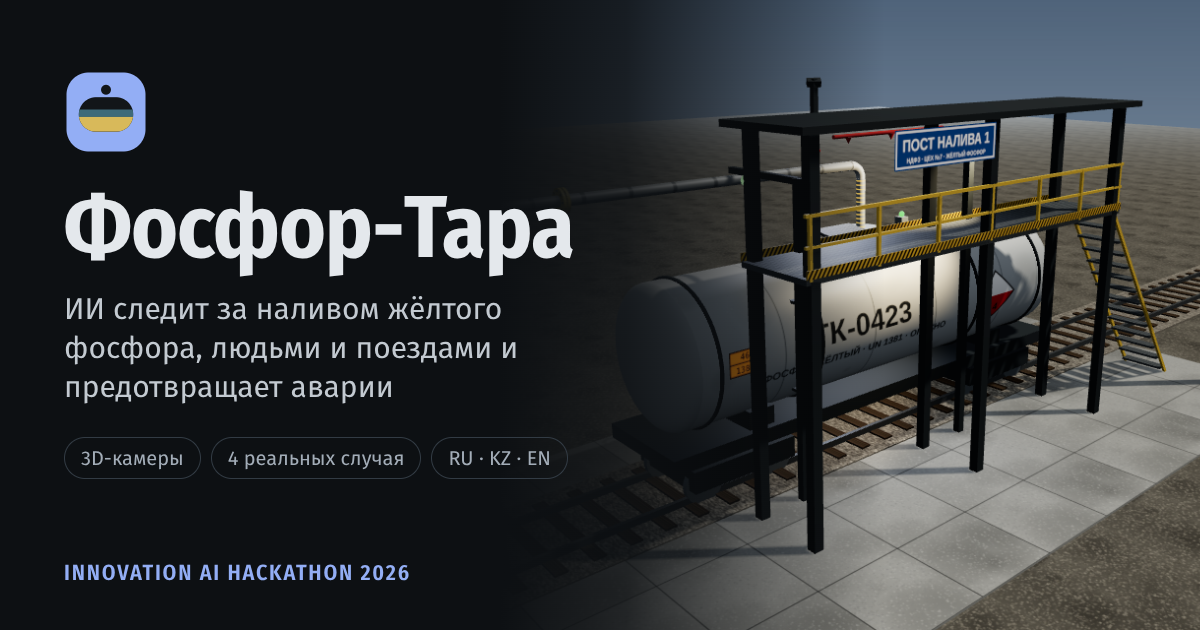
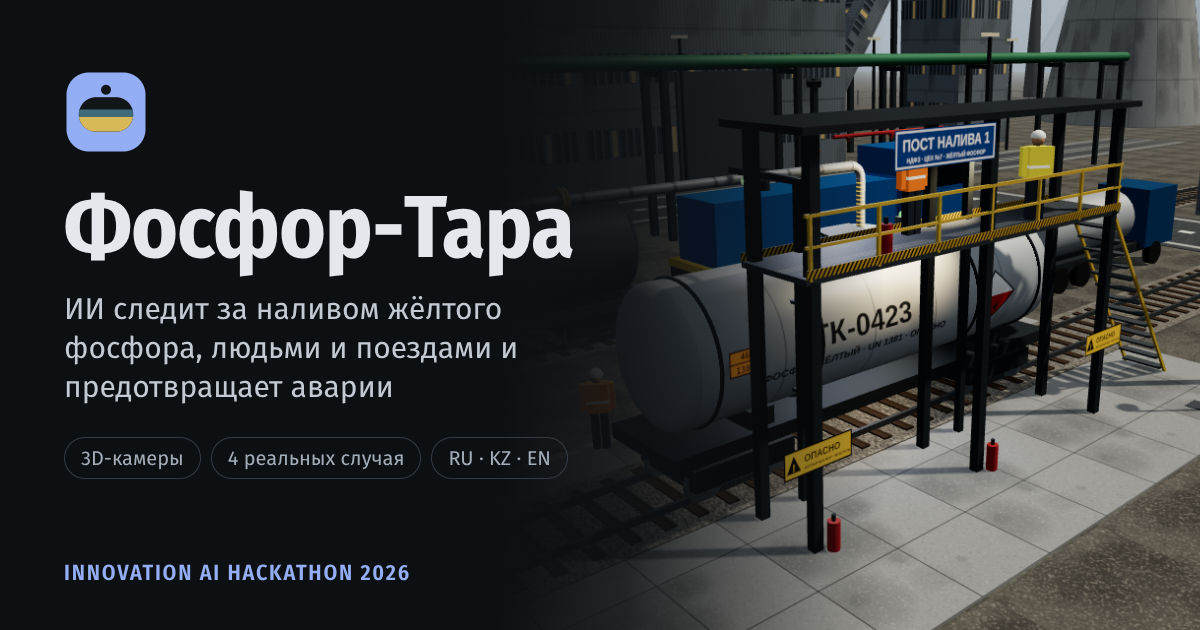
3D-камеры: заводская площадка вокруг поста и рабочие, которые уходят при тревоге
Корпус электропечей, дымовые трубы и градирня с паром, второй путь с
цистернами и тепловозом, автоцистерна, эстакада трубопроводов, дороги,
забор, ЛЭП и горы в дымке. У поста: таблички «Опасно» и «Точка сбора»
на трёх языках, огнетушители, аварийный душ, ветроуказатель по ветру.
Трое рабочих в касках: при тревоге в зоне спускаются к точке сбора,
после отбоя возвращаются. Обновлена картинка превью ссылки.

Claude-Session: https://claude.ai/code/session_01FAGVTREDDijLxVjWBaDeeS

diff --git a/index.html b/index.html
@@ -2682,6 +2682,11 @@ L.ru.ab_honest = L.ru.ab_honest.replace('Схемы маршрута и заст
 L.en.ab_honest = L.en.ab_honest.replace('The route and building layouts are illustrative.', 'The 3D model of the post and the route diagram are illustrative.');
 L.kk.ab_honest = L.kk.ab_honest.replace('Бағыт пен құрылыс сызбалары шартты.', 'Бекеттің 3D моделі мен жол сызбасы шартты.');
 
+/* ---------- таблички на 3D-площадке — три языка ---------- */
+Object.assign(L.ru, { c3_danger: 'ОПАСНО', c3_danger_sub: 'ЖЁЛТЫЙ ФОСФОР · НЕ КУРИТЬ', c3_assembly: 'ТОЧКА СБОРА', c3_furnace: 'ЦЕХ №7 · ЭЛЕКТРОПЕЧИ' });
+Object.assign(L.en, { c3_danger: 'DANGER', c3_danger_sub: 'YELLOW PHOSPHORUS · NO SMOKING', c3_assembly: 'ASSEMBLY POINT', c3_furnace: 'WORKSHOP No. 7 · FURNACES' });
+Object.assign(L.kk, { c3_danger: 'ҚАУІПТІ', c3_danger_sub: 'САРЫ ФОСФОР · ТЕМЕКІ ШЕГУГЕ БОЛМАЙДЫ', c3_assembly: 'ЖИНАЛУ ОРНЫ', c3_furnace: '№7 ЦЕХ · ЭЛЕКТР ПЕШТЕРІ' });
+
 /* ---------- состояние ---------- */
 const SEV_CLS = { good: 's-good', info: 's-info', warning: 's-warning', serious: 's-serious', critical: 's-critical' };
 const chip = (sev, label) => `<span class="chip ${SEV_CLS[sev]}"><i aria-hidden="true"></i>${esc(label ?? t('sev_' + sev))}</span>`;
@@ -4008,7 +4013,7 @@ const C3 = {
 // размеры поста, м: цистерна вдоль оси X, эстакада со стороны +Z
 const G3 = { R: 1.45, L: 10.4, yc: 2.85, hatchY: 4.55, flangeX: -6.8, pipeY: 6.0, deckY: 4.9 };
 const VIEWS = {
-  hatch: { pos: [2.6, 7.3, -4.6], at: [-0.2, 4.4, 0.4], fov: 42 },
+  hatch: { pos: [2.6, 7.3, -4.6], at: [-0.2, 4.85, 0.4], fov: 42 },
   overview: { pos: [-12.5, 7.8, 13.5], at: [-0.6, 2.6, 0.4], fov: 42 },
   flange: { pos: [-11.0, 6.2, 6.0], at: [-6.7, 3.6, 0], fov: 50 }
 };
@@ -4223,8 +4228,8 @@ function c3Build() {
   const scene = new T.Scene();
   const sky = c3Tex(T, c3Canvas(4, 256, C3TEX.sky)); sky.wrapS = sky.wrapT = T.ClampToEdgeWrapping;
   scene.background = sky;
-  scene.fog = new T.Fog(0xb7c1ca, 45, 150);
-  const cam = new T.PerspectiveCamera(50, 16 / 9, 0.1, 200);
+  scene.fog = new T.Fog(0xb7c1ca, 40, 420);
+  const cam = new T.PerspectiveCamera(50, 16 / 9, 0.1, 700);
   C3.sprite = c3Sprite(T);
   Object.assign(C3, { R, scene, cam, tgt: new T.Vector3(0, 4.35, 0), camPos: new T.Vector3(2.5, 6.6, 1.75), v3: new T.Vector3() });
 
@@ -4248,7 +4253,7 @@ function c3Build() {
     clad: c3Tex(T, c3Canvas(64, 64, C3TEX.cladding)), corr: c3Tex(T, c3Canvas(128, 128, C3TEX.corrugated))
   };
   const mats = {
-    ground: M(0xffffff, { map: c3Rep(tx.dirt, 50, 50), roughness: 1, metalness: 0 }),
+    ground: M(0xffffff, { map: c3Rep(tx.dirt, 250, 250), roughness: 1, metalness: 0 }),
     pad: M(0xffffff, { map: c3Rep(tx.conc, 6, 2.5), roughness: 0.95, metalness: 0 }),
     ballast: M(0xffffff, { map: c3Rep(tx.ballast, 30, 1.5), roughness: 1, metalness: 0 }),
     steel: M(0x8a949c, { roughness: 0.45, metalness: 0.6 }), dark: M(0x3a4248, { roughness: 0.6, metalness: 0.5 }),
@@ -4271,7 +4276,7 @@ function c3Build() {
   };
 
   // земля, площадка, рельсы со шпалами
-  const ground = new T.Mesh(new T.PlaneGeometry(160, 160), mats.ground); ground.rotation.x = -Math.PI / 2; ground.receiveShadow = true; scene.add(ground);
+  const ground = new T.Mesh(new T.PlaneGeometry(800, 800), mats.ground); ground.rotation.x = -Math.PI / 2; ground.receiveShadow = true; scene.add(ground);
   box(22, 0.04, 9.5, mats.pad, -1.5, 0.02, 1.6);
   box(60, 0.07, 3.1, mats.ballast, 0, 0.035, 0);
   box(60, 0.14, 0.09, mats.rail, 0, 0.17, -0.72); box(60, 0.14, 0.09, mats.rail, 0, 0.17, 0.72);
@@ -4383,10 +4388,10 @@ function c3Build() {
   const camLight = new T.SpotLight(0xdfe8ff, 70, 16, Math.PI / 6, 0.7, 1.6);
   camLight.position.set(2.9, 7.7, -4.7); camLight.target.position.set(0, 4.3, 0); scene.add(camLight, camLight.target);
 
-  // фон: насосная, резервуары склада, прожекторная мачта
+  // рядом с постом: насосная и прожекторная мачта; остальной завод — в c3Plant
   box(7, 4.2, 5, mats.bldg, -16, 2.1, 7.5); box(7.4, 0.2, 5.4, mats.dark, -16, 4.3, 7.5);
-  for (const [x, z] of [[-22, -9], [-14, -12], [-6, -14]]) cylY(3, 6.5, mats.bldg, x, 3.25, z, 32);
   box(0.25, 10, 0.25, mats.dark, 9.5, 5, 5.5);
+  const plant = c3Plant({ T, scene, mats, tx, M, add, box, cylX, cylY, inst });
 
   // лужи разлитого фосфора (под фланцем и у борта цистерны)
   const puddleMat = M(0xc8901f, { roughness: 0.25, metalness: 0, emissive: 0x5a3600, emissiveIntensity: 0.6, transparent: true, opacity: 0.9 });
@@ -4399,7 +4404,7 @@ function c3Build() {
   const leakLight = new T.PointLight(0xff8a2a, 0, 14, 1.6); leakLight.position.set(G3.flangeX, 1.2, 0); scene.add(leakLight);
 
   Object.assign(C3, {
-    planes: { pPhos, pWlo, pWhi }, phosTop, waterTop, lidPivot, drop, flowTex, flowGlow,
+    plant, planes: { pPhos, pWlo, pWhi }, phosTop, waterTop, lidPivot, drop, flowTex, flowGlow,
     tankCanvas, tankTex, shellParts, shellPaint, capPaint, shellGlass, innerMeshes, gauges, gauge: { h: gH, y0: gY0 }, signCanvas, signTex, sensorLamp, pumpLamp, puddleF, puddleO, fireLight, leakLight, nozzles,
     smoke: c3Particles(T, scene, 360, false), fire: c3Particles(T, scene, 220, true), spray: c3Particles(T, scene, 520, false),
     drip: c3Particles(T, scene, 120, false), spill: c3Particles(T, scene, 260, false),
@@ -4529,6 +4534,7 @@ function c3Update(dt, now) {
   });
   const po = tr.overflowed ? 2.6 : 0;
   C3.puddleO.visible = po > 0; C3.puddleO.scale.set(Math.max(po, 0.001), 1, Math.max(po * 0.5, 0.001));
+  c3PlantUpdate(dt, tr, now);
 }
 
 /* ---------- камера: ракурсы, плавный перелёт, свободный обзор ---------- */
@@ -4548,7 +4554,7 @@ function c3Camera(dt) {
   if (Math.abs(cam.fov - fov) > 0.05) { cam.fov += (fov - cam.fov) * k; cam.updateProjectionMatrix(); }
   const h = C3.R.domElement.height;
   const scale = h / 2 / Math.tan(cam.fov * Math.PI / 360);
-  [C3.smoke, C3.fire, C3.spray, C3.drip, C3.spill].forEach(P => { P.mat.uniforms.uScale.value = scale; });
+  [C3.smoke, C3.fire, C3.spray, C3.drip, C3.spill, C3.plant.steam].forEach(P => { P.mat.uniforms.uScale.value = scale; });
 }
 function c3Resize() {
   if (C3.st !== 'ready' || !C3.vp) return;
@@ -4568,7 +4574,7 @@ function c3HeroCam(now) {
   cam.lookAt(at[0], at[1], at[2]);
   if (cam.fov !== 40) { cam.fov = 40; cam.updateProjectionMatrix(); }
   const scale = C3.R.domElement.height / 2 / Math.tan(cam.fov * Math.PI / 360);
-  [C3.smoke, C3.fire, C3.spray, C3.drip, C3.spill].forEach(P => { P.mat.uniforms.uScale.value = scale; });
+  [C3.smoke, C3.fire, C3.spray, C3.drip, C3.spill, C3.plant.steam].forEach(P => { P.mat.uniforms.uScale.value = scale; });
 }
 
 /* ---------- надписи камеры и рамки ИИ поверх картинки ---------- */
@@ -4663,7 +4669,7 @@ function setupCam3d() {
       if (C3.view !== 'free') {
         // начать свободный обзор с текущего положения камеры
         const o = C3.orbit, p = C3.camPos, at = [-0.8, 3.0, 0.6], rx = p.x - at[0], ry = p.y - at[1], rz = p.z - at[2];
-        o.r = clamp(Math.hypot(rx, ry, rz), 6, 40); o.th = Math.atan2(rx, rz); o.ph = Math.asin(clamp(ry / o.r, -0.2, 1));
+        o.r = clamp(Math.hypot(rx, ry, rz), 6, 32); o.th = Math.atan2(rx, rz); o.ph = Math.asin(clamp(ry / o.r, -0.2, 1));
         d.th = o.th; d.ph = o.ph; c3SetView('free'); C3.fly = 0;
       }
     }
@@ -4677,11 +4683,269 @@ function setupCam3d() {
   document.addEventListener('wheel', e => {
     if (C3.view !== 'free' || !e.target.closest('.c3-vp')) return;
     e.preventDefault();
-    C3.orbit.r = clamp(C3.orbit.r * Math.exp(e.deltaY * 0.0012), 5, 40);
+    C3.orbit.r = clamp(C3.orbit.r * Math.exp(e.deltaY * 0.0012), 5, 32);
   }, { passive: false });
   document.addEventListener('keydown', e => { if (e.key === 'Escape' && C3.full) { e.preventDefault(); e.stopPropagation(); c3SetFull(false); } }, true);
   addEventListener('resize', () => { if (C3.st === 'ready') c3Resize(); });
   requestAnimationFrame(c3Loop);
+}
+
+/* ---------- 3D-площадка вокруг поста: корпуса завода, трубы с паром, градирня, второй путь,
+   техника, забор, ЛЭП, горы на горизонте, таблички и рабочие, которые уходят при тревоге.
+   Север — это −Z: туда смотрят «Общий вид» и облёт на главной, поэтому завод стоит там. ---------- */
+
+// светлые стеновые панели с рядами окон (часть окон светится) и цоколем
+C3TEX.facade = (g, w, h) => {
+  for (let x = 0; x < w; x += 8) { g.fillStyle = x % 16 ? '#6f7880' : '#78818a'; g.fillRect(x, 0, 8, h); }
+  c3Blot(g, w, h, 14, '#4b5157', 50, 0.3);
+  g.fillStyle = 'rgba(70,76,82,.5)'; g.fillRect(0, h * 0.45, w, 3); g.fillRect(0, h * 0.95, w, 3);
+  for (const [y0, hh] of [[0.12, 0.17], [0.58, 0.17]]) {
+    for (let x = 8; x < w - 24; x += 32) {
+      const lit = Math.random() < 0.2;
+      g.fillStyle = '#4c535a'; g.fillRect(x - 2, y0 * h - 2, 24, hh * h + 4);
+      g.fillStyle = lit ? '#e6c37a' : '#2f3c48'; g.fillRect(x, y0 * h, 20, hh * h);
+      g.fillStyle = 'rgba(255,255,255,.16)'; g.fillRect(x + 2, y0 * h + 2, 5, hh * h - 4);
+    }
+  }
+};
+C3TEX.bands = (g, w, h) => { for (let i = 0; i < 8; i++) { g.fillStyle = i % 2 ? '#e4e4df' : '#b8392e'; g.fillRect(0, i * h / 8, w, h / 8); } };
+C3TEX.asphalt = (g, w, h) => {
+  g.fillStyle = '#44484c'; g.fillRect(0, 0, w, h); c3Speckle(g, w, h, 5000, ['#54585c', '#35383b'], 0.7, 2);
+  g.fillStyle = '#cfd1cc'; for (let x = 0; x < w; x += 64) g.fillRect(x, h / 2 - 2, 34, 4);
+  g.fillStyle = '#a9aca6'; g.fillRect(0, 5, w, 3); g.fillRect(0, h - 8, w, 3);
+};
+C3TEX.sock = (g, w, h) => { for (let i = 0; i < 5; i++) { g.fillStyle = i % 2 ? '#f2f2ee' : '#f07a1a'; g.fillRect(i * w / 5, 0, w / 5, h); } };
+
+// таблички: «Опасно — жёлтый фосфор», «Точка сбора», название цеха — перерисовываются при смене языка
+function c3BoardPaint(g, w, h, kind) {
+  g.textBaseline = 'alphabetic';
+  if (kind === 'danger') {
+    g.fillStyle = '#f2c230'; g.fillRect(0, 0, w, h); g.strokeStyle = '#111'; g.lineWidth = 10; g.strokeRect(5, 5, w - 10, h - 10);
+    g.fillStyle = '#111'; g.beginPath(); g.moveTo(70, 30); g.lineTo(122, 135); g.lineTo(18, 135); g.closePath(); g.fill();
+    g.fillStyle = '#f2c230'; g.font = '700 66px Arial, sans-serif'; g.textAlign = 'center'; g.fillText('!', 70, 126);
+    g.fillStyle = '#111'; g.textAlign = 'left'; g.font = '800 62px Arial, sans-serif'; g.fillText(t('c3_danger'), 146, 92, w - 160);
+    g.font = '700 24px Arial, sans-serif'; g.fillText(t('c3_danger_sub'), 146, 136, w - 160);
+  } else if (kind === 'assembly') {
+    g.fillStyle = '#1f8a4c'; g.fillRect(0, 0, w, h); g.strokeStyle = '#fff'; g.lineWidth = 8; g.strokeRect(6, 6, w - 12, h - 12);
+    g.fillStyle = '#fff'; g.textAlign = 'center'; g.font = '800 50px Arial, sans-serif'; g.fillText(t('c3_assembly'), w / 2, h / 2 + 18, w - 30);
+  } else {
+    g.fillStyle = '#22394f'; g.fillRect(0, 0, w, h); g.strokeStyle = 'rgba(255,255,255,.7)'; g.lineWidth = 4; g.strokeRect(6, 6, w - 12, h - 12);
+    g.fillStyle = '#fff'; g.textAlign = 'center'; g.font = '700 60px Arial, sans-serif'; g.fillText(t('c3_furnace'), w / 2, h / 2 + 21, w - 40);
+  }
+}
+
+// рабочий в каске и жилете со светоотражающей полосой; ноги и руки качаются при ходьбе
+function c3Worker(T, scene, vest) {
+  const g = new T.Group(), M = (c, o) => new T.MeshStandardMaterial(Object.assign({ color: c, roughness: 0.7 }, o || {}));
+  const vestM = M(vest, { emissive: vest, emissiveIntensity: 0.15 });
+  const mk = (geo, mat, x, y, z) => { const m = new T.Mesh(geo, mat); m.position.set(x, y, z); m.castShadow = true; g.add(m); return m; };
+  const legG = new T.BoxGeometry(0.16, 0.86, 0.18); legG.translate(0, -0.43, 0);
+  const armG = new T.BoxGeometry(0.12, 0.6, 0.14); armG.translate(0, -0.28, 0);
+  const legM = M(0x2b3440);
+  const w = { g, legL: mk(legG, legM, -0.1, 0.88, 0), legR: mk(legG, legM, 0.1, 0.88, 0) };
+  mk(new T.BoxGeometry(0.46, 0.66, 0.26), vestM, 0, 1.2, 0);
+  mk(new T.BoxGeometry(0.47, 0.06, 0.27), M(0xe8e8e0, { emissive: 0x77776f }), 0, 1.12, 0);
+  mk(new T.SphereGeometry(0.13, 12, 10), M(0xc99a78), 0, 1.66, 0);
+  mk(new T.SphereGeometry(0.16, 12, 8, 0, Math.PI * 2, 0, Math.PI / 2), M(0xf2f2ee, { roughness: 0.4 }), 0, 1.7, 0);
+  w.armL = mk(armG, vestM, -0.3, 1.5, 0); w.armR = mk(armG, vestM, 0.3, 1.5, 0);
+  scene.add(g);
+  return w;
+}
+
+function c3Plant(k) {
+  const { T, scene, mats, tx, M, add, box, cylX, cylY, inst } = k, ez = 2.75;
+  // дальние здания не отбрасывают тень: карта теней всё равно покрывает только пост
+  const far = m => { m.castShadow = false; return m; };
+  const facade = c3Tex(T, c3Canvas(256, 256, C3TEX.facade));
+  const fMat = (rx, ry) => M(0xffffff, { map: c3Rep(facade, rx, ry), roughness: 0.85, metalness: 0.15 });
+  const roof = M(0x3a4046, { roughness: 0.85, metalness: 0.3 });
+  const concrete = M(0xffffff, { map: c3Rep(tx.conc, 4, 1), roughness: 0.95, metalness: 0 });
+  const asphalt = c3Tex(T, c3Canvas(256, 64, C3TEX.asphalt));
+  const glassDark = M(0x1e2a33, { roughness: 0.2, metalness: 0.6 });
+  // балка или цилиндр между двумя точками: провода, галерея конвейера
+  const between = (a, b, r, mat, sect) => {
+    const A = new T.Vector3(...a), B = new T.Vector3(...b), dir = B.clone().sub(A), len = dir.length();
+    const geo = sect ? new T.BoxGeometry(len, sect[0], sect[1]) : new T.CylinderGeometry(r, r, len, 6).rotateZ(Math.PI / 2);
+    const m = new T.Mesh(geo, mat); m.position.copy(A).add(B).multiplyScalar(0.5);
+    m.quaternion.setFromUnitVectors(new T.Vector3(1, 0, 0), dir.normalize()); scene.add(m); return m;
+  };
+
+  // второй путь за постом: две цистерны и маневровый тепловоз
+  box(80, 0.07, 3.1, mats.ballast, 0, 0.035, -10);
+  box(80, 0.14, 0.09, mats.rail, 0, 0.17, -10.72); box(80, 0.14, 0.09, mats.rail, 0, 0.17, -9.28);
+  const sl = []; for (let x = -39.5; x <= 39.5; x += 0.7) sl.push([x, 0.06, -10]);
+  inst(new T.BoxGeometry(0.24, 0.1, 2.5), mats.sleeper, sl);
+  const carPaint = M(0x3d4349, { roughness: 0.55, metalness: 0.3 }), truckTank = M(0xb9bfc3, { roughness: 0.45, metalness: 0.35 });
+  const wh2 = [];
+  for (const x of [-17, -5.5]) {
+    box(10.6, 0.3, 2.3, mats.dark, x, 1.15, -10);
+    for (const dx of [-3.8, 3.8]) { box(2.3, 0.45, 2, mats.dark, x + dx, 0.62, -10); for (const ddx of [-0.85, 0.85]) for (const z of [-10.72, -9.28]) wh2.push([x + dx + ddx, 0.42, z, Math.PI / 2]); }
+    cylX(1.4, 9.4, carPaint, x, 2.75, -10, 32);
+    for (const sx of [-1, 1]) { const c = add(new T.SphereGeometry(1.4, 24, 12), carPaint, x + sx * 4.7, 2.75, -10); c.scale.set(0.3, 1, 1); }
+    cylY(0.38, 0.35, mats.dark, x, 4.25, -10, 16);
+    box(9.4, 0.06, 0.5, mats.deck, x, 4.18, -10);
+  }
+  const loco = M(0x2c6aa8, { roughness: 0.5, metalness: 0.3 }), locoY = M(0xe0b83a, { roughness: 0.5 });
+  box(13, 0.4, 2.8, mats.dark, 8.5, 1.15, -10);
+  box(8.8, 2.4, 2.2, loco, 6.6, 2.55, -10); box(3.2, 3.4, 2.8, loco, 12.3, 3.05, -10);
+  box(13.1, 0.25, 2.85, locoY, 8.5, 1.5, -10);
+  box(3.0, 0.9, 2.85, glassDark, 12.3, 3.7, -10);
+  cylY(0.2, 0.8, mats.dark, 5.0, 4.1, -10, 10);
+  for (const dx of [-4.2, 4.2]) { box(2.6, 0.55, 2.1, mats.dark, 8.5 + dx, 0.6, -10); for (const ddx of [-0.9, 0.9]) for (const z of [-10.72, -9.28]) wh2.push([8.5 + dx + ddx, 0.42, z, Math.PI / 2]); }
+  inst(new T.CylinderGeometry(0.42, 0.42, 0.12, 16), mats.steel, wh2);
+
+  // автоцистерна между путями
+  const truckBlue = M(0x24557f, { roughness: 0.5, metalness: 0.3 });
+  box(7.2, 0.35, 1.9, mats.dark, 15.5, 0.85, -4.2);
+  box(2.2, 2.3, 2.3, truckBlue, 19.6, 1.95, -4.2); box(0.06, 0.9, 2.0, glassDark, 20.72, 2.45, -4.2);
+  cylX(1.0, 5.6, truckTank, 15.0, 2.05, -4.2, 24);
+  const tw = []; for (const x of [12.8, 14.2, 19.4]) for (const z of [-5.2, -3.2]) tw.push([x, 0.48, z, Math.PI / 2]);
+  inst(new T.CylinderGeometry(0.48, 0.48, 0.3, 16), M(0x1b1d1f, { roughness: 0.9 }), tw);
+
+  // эстакада трубопроводов через весь завод
+  const rack = []; for (let x = -45; x <= 45; x += 7.5) for (const z of [-21.8, -20.2]) rack.push([x, 3.75, z]);
+  inst(new T.BoxGeometry(0.3, 7.5, 0.3), mats.dark, rack);
+  const beams = []; for (let x = -45; x <= 45; x += 7.5) beams.push([x, 7.3, -21]);
+  inst(new T.BoxGeometry(0.25, 0.25, 2.0), mats.dark, beams);
+  for (const [z, r, mat] of [[-21.5, 0.28, mats.pipe], [-21, 0.2, M(0xd9b23a, { roughness: 0.5 })], [-20.5, 0.32, M(0x3f7d5a, { roughness: 0.5 })]]) far(cylX(r, 92, mat, 0, 7.45 + r, z, 12));
+
+  // дороги: вдоль цехов и к складу (переезд через оба пути)
+  far(box(130, 0.03, 7, M(0xffffff, { map: c3Rep(asphalt, 26, 1), roughness: 0.95, metalness: 0 }), 0, 0.02, -28));
+  const ar = far(box(62, 0.03, 7, M(0xffffff, { map: c3Rep(asphalt, 12, 1), roughness: 0.95, metalness: 0 }), 26.25, 0.025, 3)); ar.rotation.y = Math.PI / 2;
+
+  // главный корпус с электропечами и пристройка
+  far(box(36, 20, 22, fMat(9, 2.2), 12, 10, -44)); far(box(37, 1, 23, roof, 12, 20.5, -44)); far(box(30, 4, 7, fMat(8, 0.45), 12, 23, -44)); far(box(31, 0.6, 8, roof, 12, 25.3, -44));
+  far(box(16, 11, 14, fMat(4, 1.2), -14, 5.5, -42)); far(box(16.8, 0.8, 14.8, roof, -14, 11.4, -42));
+  far(box(8, 7, 0.3, M(0x50585e, { roughness: 0.7, metalness: 0.4 }), 20, 3.5, -32.9));
+  const furnSign = c3Canvas(1024, 128, () => {}), furnTex = c3Tex(T, furnSign);
+  const fs = new T.Mesh(new T.PlaneGeometry(18, 2.25), new T.MeshStandardMaterial({ map: furnTex, roughness: 0.6 })); fs.position.set(4, 16.6, -32.95); scene.add(fs);
+  // две дымовые трубы за корпусом, из них идёт пар
+  const bands = M(0xffffff, { map: c3Tex(T, c3Canvas(16, 128, C3TEX.bands)), roughness: 0.7 });
+  const stacks = [[21, -60], [28, -60]];
+  for (const [x, z] of stacks) { far(cylY(1.5, 46, bands, x, 23, z, 20)); far(cylY(1.75, 1.2, mats.dark, x, 45.6, z, 20)); }
+  // башня с наклонной галереей конвейера и градирня дальше на северо-востоке
+  far(box(7, 26, 7, fMat(2, 3), 50, 13, -40)); far(box(7.6, 0.8, 7.6, roof, 50, 26.4, -40));
+  far(between([32, 2, -40], [46.5, 23, -40], 0, fMat(6, 0.4), [2.2, 2.4]));
+  for (const [x, hh] of [[37, 9.2], [42, 16.4]]) far(box(0.4, hh, 0.4, mats.dark, x, hh / 2, -40));
+  const towerG = new T.LatheGeometry([[9.5, 0], [8.4, 6], [6.9, 14], [6.6, 18], [7.1, 24], [7.5, 27]].map(([r, y]) => new T.Vector2(r, y)), 40);
+  const ct = new T.Mesh(towerG, M(0xffffff, { map: c3Rep(tx.conc, 10, 3), roughness: 0.95, metalness: 0, side: T.DoubleSide })); ct.position.set(83, 0, -42); scene.add(ct);
+  // склад готовой продукции у конца путей и административный корпус
+  far(box(26, 8, 14, fMat(7, 1), 44, 4, 0));
+  const gable = new T.CylinderGeometry(8.2, 8.2, 26.6, 3, 1); gable.rotateZ(Math.PI / 2); gable.rotateX(-Math.PI / 2);
+  const gm = far(add(gable, M(0x3a4046, { roughness: 0.85, metalness: 0.3, flatShading: true }), 44, 9.25, 0)); gm.scale.set(1, 0.3, 1);
+  far(box(0.3, 5, 4.5, M(0x50585e, { roughness: 0.7, metalness: 0.4 }), 30.9, 2.5, 0));
+  far(box(18, 12, 11, fMat(5, 1.6), -36, 6, 24)); far(box(18.6, 0.6, 11.6, roof, -36, 12.3, 24));
+  // резервуарный парк за обвалованием
+  for (const x of [-52, -44, -36]) { far(cylY(3.2, 7, mats.bldg, x, 3.5, -38, 32)); far(cylY(3.35, 0.4, roof, x, 7.1, -38, 32)); }
+  for (const [w, d, x, z] of [[26, 0.4, -44, -33], [26, 0.4, -44, -43], [0.4, 10, -57, -38], [0.4, 10, -31, -38]]) far(box(w, 1.1, d, concrete, x, 0.55, z));
+
+  // забор по периметру и фонари вдоль дорог
+  const fx0 = -70, fx1 = 100, fz0 = -85, fz1 = 42, fp = [];
+  for (let x = fx0; x <= fx1; x += 3.5) { fp.push([x, 1.1, fz0]); fp.push([x, 1.1, fz1]); }
+  for (let z = fz0; z <= fz1; z += 3.5) { fp.push([fx0, 1.1, z]); fp.push([fx1, 1.1, z]); }
+  far(inst(new T.BoxGeometry(0.1, 2.2, 0.1), mats.dark, fp));
+  const wire = M(0x8a9196, { roughness: 0.5, metalness: 0.6 }), cx = (fx0 + fx1) / 2, cz = (fz0 + fz1) / 2;
+  for (const y of [0.9, 1.9]) { far(box(fx1 - fx0, 0.05, 0.05, wire, cx, y, fz0)); far(box(fx1 - fx0, 0.05, 0.05, wire, cx, y, fz1)); far(box(0.05, 0.05, fz1 - fz0, wire, fx0, y, cz)); far(box(0.05, 0.05, fz1 - fz0, wire, fx1, y, cz)); }
+  const lamps = []; for (let x = -48; x <= 48; x += 16) lamps.push([x, 4.5, -32.2]); for (const z of [-14, 6, 20]) lamps.push([22, 4.5, z]);
+  far(inst(new T.CylinderGeometry(0.1, 0.14, 9, 8), mats.dark, lamps));
+  far(inst(new T.BoxGeometry(0.9, 0.18, 0.4), M(0x2a2f33, { emissive: 0xfff1c8, emissiveIntensity: 0.35 }), lamps.map(([x, , z]) => [x, 9, z])));
+
+  // линия электропередачи за забором
+  const pyl = [], heads = [];
+  for (const z of [-130, -80, -30, 20, 70]) { pyl.push([118, 12, z]); heads.push([118, 22, z]); }
+  far(inst(new T.CylinderGeometry(0.5, 1.8, 24, 4), mats.dark, pyl));
+  far(inst(new T.BoxGeometry(9, 0.4, 0.4), mats.dark, heads));
+  for (let i = 0; i < heads.length - 1; i++) for (const dx of [-4, 0, 4]) between([heads[i][0] + dx, 21.8, heads[i][2]], [heads[i + 1][0] + dx, 21.8, heads[i + 1][2]], 0.04, mats.dark);
+
+  // горы Каратау в дымке на горизонте
+  const mtn = M(0x6e7c89, { roughness: 1, metalness: 0, flatShading: true }), mtn2 = M(0x8b98a4, { roughness: 1, metalness: 0, flatShading: true });
+  let seed = 7; const rnd = () => { seed = (seed * 16807) % 2147483647; return seed / 2147483647; };
+  const peak = (mat, r, h, x, z) => { const m = new T.Mesh(new T.ConeGeometry(r, h, 5), mat); m.position.set(x, h / 2 - 8, z); m.rotation.y = rnd() * 3; scene.add(m); };
+  for (let x = -340; x <= 340; x += 55) peak(mtn, 70 + rnd() * 50, 45 + rnd() * 50, x + rnd() * 30, -260 - rnd() * 30);
+  for (let x = -360; x <= 360; x += 70) peak(mtn2, 90 + rnd() * 60, 70 + rnd() * 50, x + rnd() * 40, -330 - rnd() * 30);
+  for (let z = -230; z <= 90; z += 60) peak(mtn, 60 + rnd() * 40, 35 + rnd() * 40, 290 + rnd() * 40, z);
+  for (let x = -330; x <= 330; x += 60) peak(mtn2, 70 + rnd() * 40, 25 + rnd() * 30, x + rnd() * 30, 300 + rnd() * 40);
+  for (let z = -240; z <= 260; z += 60) peak(mtn2, 70 + rnd() * 40, 25 + rnd() * 35, -300 - rnd() * 40, z);
+
+  // у поста: таблички «Опасно», огнетушители, аварийный душ, точка сбора, ветроуказатель
+  const boardCv = { danger: c3Canvas(512, 170, () => {}), assembly: c3Canvas(512, 128, () => {}) };
+  const boardTex = { danger: c3Tex(T, boardCv.danger), assembly: c3Tex(T, boardCv.assembly) };
+  const dMat = new T.MeshStandardMaterial({ map: boardTex.danger, roughness: 0.6 });
+  for (const x of [-4.4, 4.4]) { const db = new T.Mesh(new T.PlaneGeometry(1.5, 0.5), dMat); db.position.set(x, 1.9, ez + 0.87); scene.add(db); }
+  for (const [x, y, z] of [[0.25, 0.32, ez + 0.95], [-4.15, 0.32, ez + 0.95], [-2.6, G3.deckY + 0.36, ez + 0.6]]) { cylY(0.12, 0.56, mats.red, x, y, z, 12); cylY(0.04, 0.12, mats.dark, x, y + 0.34, z, 8); }
+  const green = M(0x2f9a57, { roughness: 0.5 });
+  cylY(0.06, 2.6, green, 6.6, 1.3, 5.4, 8); cylY(0.25, 0.08, green, 6.6, 2.55, 5.1, 16); box(0.5, 0.05, 0.5, mats.deck, 6.6, 0.03, 5.1);
+  const ax = 13, az = 5.8;
+  cylY(0.06, 3.2, mats.dark, ax, 1.6, az, 8);
+  const ab = new T.Mesh(new T.PlaneGeometry(1.8, 0.45), new T.MeshStandardMaterial({ map: boardTex.assembly, roughness: 0.6, side: T.DoubleSide })); ab.position.set(ax, 2.75, az + 0.05); scene.add(ab);
+  const flag = add(new T.PlaneGeometry(0.9, 0.55), M(0x2f9a57, { side: T.DoubleSide }), ax + 0.48, 3.0, az); flag.castShadow = false;
+  box(4, 0.03, 3, M(0x2f9a57, { roughness: 0.9 }), ax, 0.035, az + 0.6);
+  cylY(0.05, 0.9, mats.dark, 9.5, 10.4, 5.5, 8);
+  const sock = new T.Group(); sock.position.set(9.5, 10.75, 5.5); scene.add(sock);
+  const sockG = new T.CylinderGeometry(0.3, 0.12, 1.8, 14, 1, true); sockG.rotateZ(-Math.PI / 2); sockG.translate(0.95, 0, 0);
+  const sockM = new T.Mesh(sockG, M(0xffffff, { map: c3Tex(T, c3Canvas(80, 16, C3TEX.sock)), side: T.DoubleSide, roughness: 0.8 }));
+  sockM.castShadow = true; sock.add(sockM);
+
+  // рабочие: двое на эстакаде у горловины, один у фланца по ту сторону цистерны.
+  // Путь к точке сбора — по настилу к лестнице, вниз и через площадку; оттуда же назад.
+  const deck = G3.deckY + 0.05, gy = 0.05;
+  const workers = [
+    { home: [-0.9, deck, 2.35], face: Math.PI, evac: [[4.4, deck, 2.6], [8.4, gy, 2.6], [12.2, gy, 5.1]], vest: 0xf07a1a },
+    { home: [2.1, deck, 3.05], face: Math.PI * 0.85, evac: [[4.4, deck, 2.95], [8.4, gy, 2.95], [13.8, gy, 5.3]], vest: 0xe4d23a },
+    { home: [-5.2, gy, -2.7], face: -0.55, evac: [[-7.8, gy, -1.8], [-7.8, gy, 2.6], [-3.0, gy, 6.6], [13.0, gy, 7.0]], vest: 0xf07a1a }
+  ].map(w => Object.assign(c3Worker(T, scene, w.vest), w, { pos: w.home.slice(), path: [], mode: 'home', phase: Math.random() * 6 }));
+  workers.forEach(w => { w.g.position.set(...w.home); w.g.rotation.y = w.face; });
+
+  // пар над трубами и градирней
+  const steam = c3Particles(T, scene, 160, false);
+  return { workers, sock, steam, stacks, tower: [83, 27, -42], boardCv, boardTex, furnSign, furnTex, key: '', post: -1 };
+}
+
+function c3PlantUpdate(dt, tr, now) {
+  const P = C3.plant; if (!P) return;
+  // таблички на языке сайта
+  if (P.key !== LANG) {
+    P.key = LANG;
+    for (const k of ['danger', 'assembly']) { const cv = P.boardCv[k]; c3BoardPaint(cv.getContext('2d'), cv.width, cv.height, k); P.boardTex[k].needsUpdate = true; }
+    c3BoardPaint(P.furnSign.getContext('2d'), 1024, 128, 'furnace'); P.furnTex.needsUpdate = true;
+  }
+  // ветроуказатель вытянут туда, куда дует ветер (север = −Z)
+  const to = (weather.windFrom + 180) * Math.PI / 180, dx = Math.sin(to), dz = -Math.cos(to);
+  P.sock.rotation.y = Math.atan2(-dz, dx) + 0.07 * Math.sin(now / 380);
+  // пар: медленно поднимается и уходит по ветру
+  const ws = (weather.windSpeed || 3) / 3, rnd = () => Math.random() - 0.5;
+  c3Emit(P.steam, dt > 0 ? 5 : 0, dt, () => { const s = P.stacks[Math.floor(Math.random() * P.stacks.length)]; c3Spawn(P.steam, s[0] + rnd(), 46.6, s[1] + rnd(), dx * ws + rnd() * 0.4, 1.3 + Math.random() * 0.6, dz * ws + rnd() * 0.4, 10 + Math.random() * 3); });
+  c3Emit(P.steam, dt > 0 ? 4 : 0, dt, () => c3Spawn(P.steam, P.tower[0] + rnd() * 9, P.tower[1], P.tower[2] + rnd() * 9, dx * ws * 0.7, 1.8 + Math.random() * 0.7, dz * ws * 0.7, 11 + Math.random() * 3));
+  c3Step(P.steam, dt, (i, u) => {
+    const v = P.steam.vel, p = P.steam.pos;
+    p[i * 3] += v[i * 3] * dt; p[i * 3 + 1] += v[i * 3 + 1] * dt; p[i * 3 + 2] += v[i * 3 + 2] * dt;
+    P.steam.size[i] = 5 + 20 * Math.pow(u, 0.6); P.steam.alpha[i] = 0.24 * Math.min(1, u * 6) * (1 - u);
+    P.steam.col[i * 3] = 0.94; P.steam.col[i * 3 + 1] = 0.95; P.steam.col[i * 3 + 2] = 0.96;
+  });
+  // рабочие уходят к точке сбора, пока есть тревога и опасность; когда всё стихло — возвращаются
+  const h = hz[tr.id];
+  if (P.post !== tr.id) { P.post = tr.id; P.workers.forEach(w => { w.pos = w.home.slice(); w.path = []; w.mode = 'home'; w.g.rotation.y = w.face; }); }
+  const danger = !!(h && h.alarm != null && (h.active || tr.smoke > 0.05 || tr.fire > 0.05 || tr.leakFire));
+  for (const w of P.workers) {
+    const want = danger ? 'evac' : 'home';
+    if (w.mode !== want) {
+      w.mode = want;
+      w.path = (want === 'evac' ? w.evac : [...w.evac.slice(0, -1).reverse(), w.home]).map(p => p.slice());
+    }
+    let moving = false;
+    if (w.path.length && dt > 0) {
+      const tgt = w.path[0], ddx = tgt[0] - w.pos[0], ddy = tgt[1] - w.pos[1], ddz = tgt[2] - w.pos[2], d = Math.hypot(ddx, ddy, ddz);
+      const step = (w.mode === 'evac' ? 2.4 : 1.2) * dt;
+      if (d <= step) { w.pos = tgt.slice(); w.path.shift(); }
+      else { w.pos[0] += ddx / d * step; w.pos[1] += ddy / d * step; w.pos[2] += ddz / d * step; moving = true; }
+      if (Math.hypot(ddx, ddz) > 0.01) w.g.rotation.y = Math.atan2(ddx, ddz);
+    }
+    if (!w.path.length && w.mode === 'home') w.g.rotation.y = w.face;
+    w.g.position.set(w.pos[0], w.pos[1], w.pos[2]);
+    if (dt > 0) w.phase += dt * (w.mode === 'evac' ? 11 : 6.5);
+    const sw = moving ? Math.sin(w.phase) * 0.6 : 0;
+    w.legL.rotation.x = sw; w.legR.rotation.x = -sw; w.armL.rotation.x = -sw * 0.8; w.armR.rotation.x = sw * 0.8;
+  }
 }
 
 /* ---------- инспектор: данные выбранного объекта ---------- */
